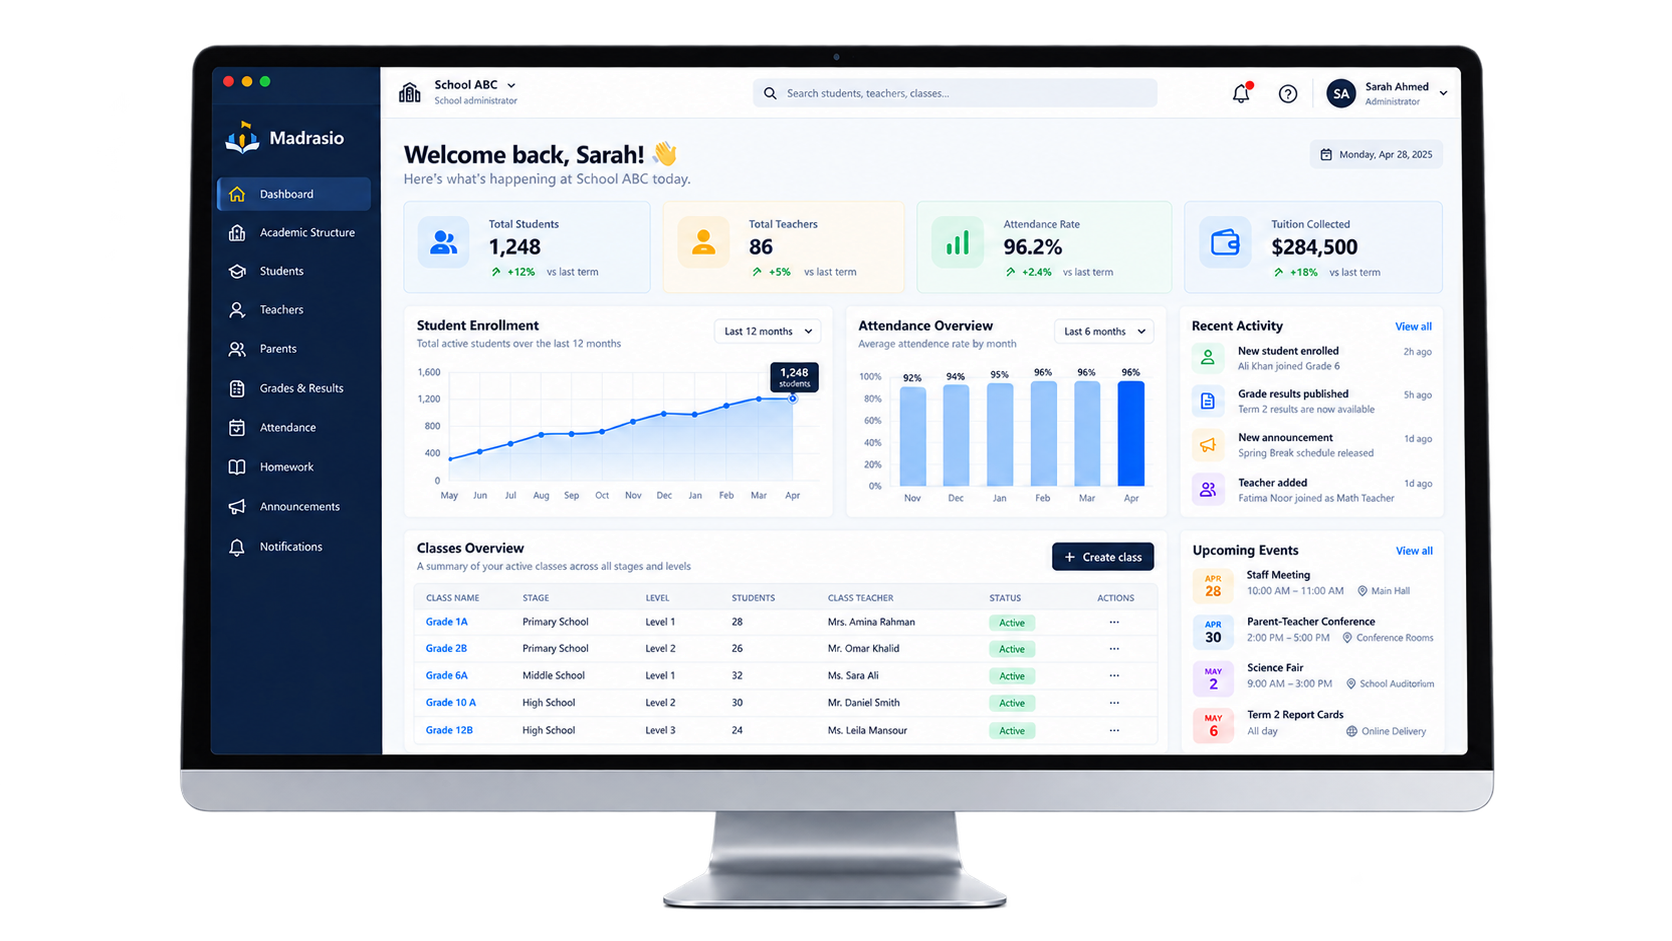
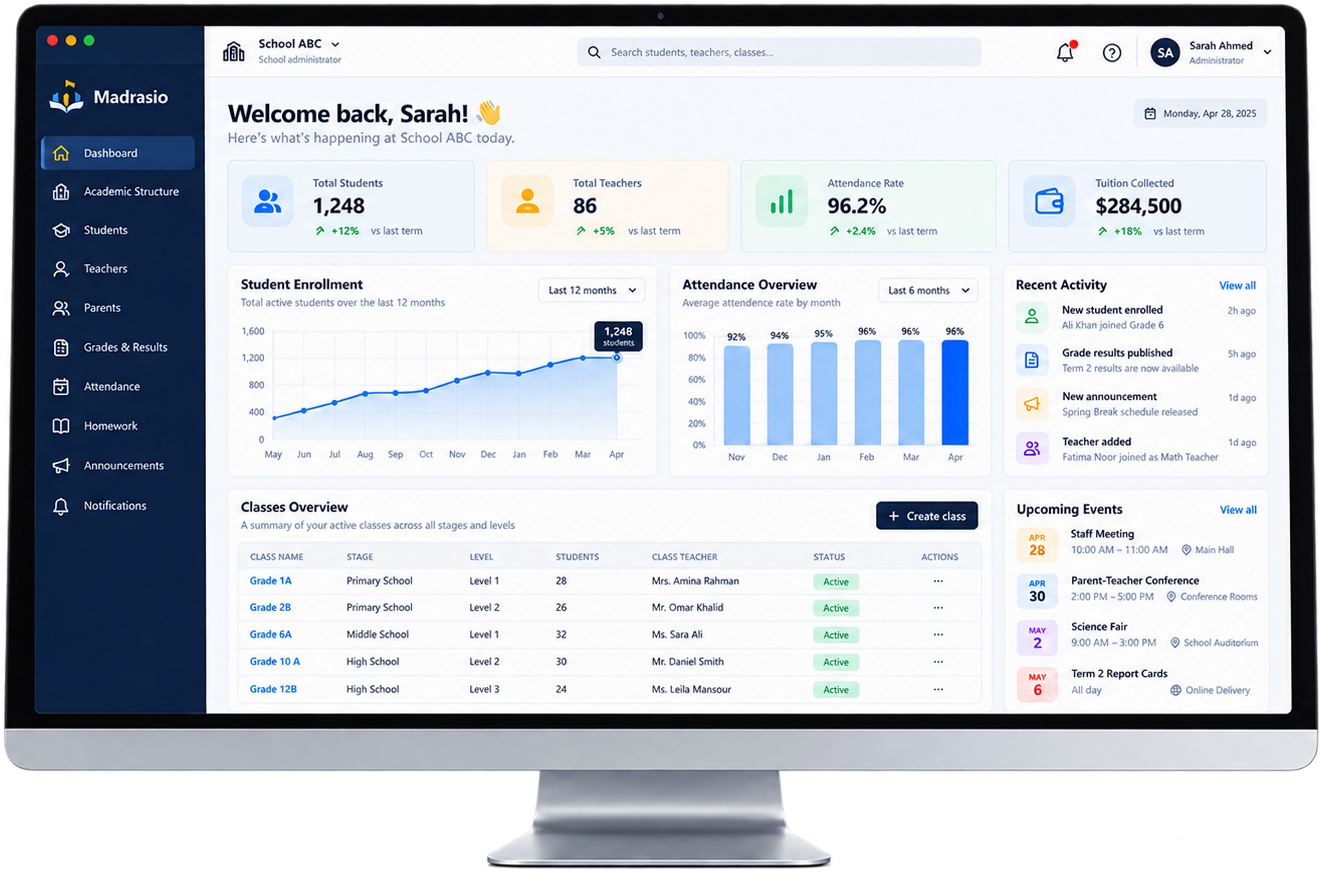
first release

diff --git a/components/Pricing.tsx b/components/Pricing.tsx
@@ -8,6 +8,7 @@ import {
   FaShieldHalved,
   FaUsers,
 } from 'react-icons/fa6';
+import { MdAttachMoney } from "react-icons/md";
 
 import { useLanguage } from '@/components/LanguageProvider';
 
@@ -62,10 +63,11 @@ export default function Pricing() {
   };
 
   return (
-    <section id="pricing" className="scroll-mt-20 w-full bg-[#FCA311]">
+    <section id="pricing" className="scroll-mt-16 w-full bg-[#FCA311]">
       <div className="w-full max-w-[1536px] mx-auto px-4 sm:px-8 lg:px-12 xl:px-16 py-16 lg:py-24 text-center">
         <div className="inline-flex items-center gap-2 px-4 py-1.5 rounded-full whitespace-nowrap bg-[#14213D] text-[#FCA311] text-xs font-black tracking-widest uppercase mb-6">
-          {t('pricingCalculator.badge')}
+          <MdAttachMoney size={20} />
+          <span>{t('pricingCalculator.badge')}</span>
         </div>
         <h2 className="text-4xl sm:text-5xl lg:text-6xl font-black text-[#14213D] mb-6">
           <span className="text-black">{t('pricingCalculator.titleA')}</span>{' '}

diff --git a/components/Roles.tsx b/components/Roles.tsx
@@ -6,6 +6,8 @@ import {
   FaPersonChalkboard,
   FaUserShield,
 } from 'react-icons/fa6';
+import { GrStakeholder } from "react-icons/gr";
+
 
 import { useLanguage } from '@/components/LanguageProvider';
 
@@ -20,7 +22,8 @@ export default function Roles() {
     <section id="roles" className="w-full bg-[#000000] overflow-hidden">
       <div className="w-full max-w-[1536px] mx-auto px-4 sm:px-8 lg:px-12 xl:px-16 py-16 lg:py-24 text-center">
         <div className="inline-flex items-center gap-2 px-4 py-1.5 rounded-full whitespace-nowrap bg-[#FCA311]/15 border border-[#FCA311]/40 text-[#FCA311] text-xs font-black tracking-widest uppercase mb-4 shadow-[0_0_15px_rgba(252,163,17,0.2)]">
-          {t('roles.badge')}
+          <GrStakeholder size={20} />
+          <span>{t('roles.badge')}</span>
         </div>
         <h2 className="text-3xl sm:text-5xl lg:text-6xl font-black text-white tracking-tight mb-4">
           {t('roles.titleA')}{' '}

diff --git a/components/GlobalEducation.tsx b/components/GlobalEducation.tsx
@@ -1,6 +1,7 @@
 'use client';
 
 import { FaGlobe, FaGraduationCap, FaSchool } from 'react-icons/fa6';
+import { BsGlobeAmericasFill } from "react-icons/bs";
 
 import { useLanguage } from '@/components/LanguageProvider';
 
@@ -19,7 +20,8 @@ export default function GlobalEducation() {
       {/* Section Header & Feature Cards */}
       <div className="w-full max-w-[1536px] mx-auto px-4 sm:px-8 lg:px-12 xl:px-16 text-center py-16 lg:py-24">
         <div className="inline-flex items-center gap-2 px-4 py-1.5 rounded-full whitespace-nowrap border border-[#FCA311]/30 bg-[#14213D] text-[#FCA311] text-xs font-semibold tracking-widest uppercase mb-6">
-          {t('globalEducation.badge')}
+          <BsGlobeAmericasFill size={20} />
+          <span>{t('globalEducation.badge')}</span>
         </div>
         <h2 className="text-3xl sm:text-5xl lg:text-6xl font-bold text-white mb-4">
           {t('globalEducation.titleA')}{' '}

diff --git a/components/Security.tsx b/components/Security.tsx
@@ -5,6 +5,7 @@ import {
   FaDatabase,
   FaShieldHalved,
 } from 'react-icons/fa6';
+import { IoShieldHalfOutline } from "react-icons/io5";
 
 import { useLanguage } from '@/components/LanguageProvider';
 
@@ -38,7 +39,8 @@ export default function Security() {
     <section id="security" className="w-full bg-white overflow-hidden">
       <div className="w-full max-w-[1536px] mx-auto px-4 sm:px-8 lg:px-12 xl:px-16 py-16 lg:py-24 text-center">
         <div className="inline-flex items-center gap-2 px-4 py-1.5 rounded-full whitespace-nowrap bg-[#14213D]/5 border border-[#14213D]/10 text-[#14213D] text-xs font-bold tracking-widest uppercase mb-4">
-          {t('security.badge')}
+          <IoShieldHalfOutline size={20} />
+          <span>{t('security.badge')}</span>
         </div>
         <h2 className="text-3xl sm:text-5xl lg:text-6xl font-black text-[#14213D] tracking-tight mb-4">
           {t('security.titleA')}{' '}

diff --git a/components/ValuePillars.tsx b/components/ValuePillars.tsx
@@ -6,6 +6,8 @@ import {
   FaShieldHalved,
   FaUsers,
 } from 'react-icons/fa6';
+import { IoSchool } from "react-icons/io5";
+
 
 import { useLanguage } from '@/components/LanguageProvider';
 
@@ -25,7 +27,8 @@ export default function ValuePillars() {
     <section className="w-full bg-[#E5E5E5] overflow-hidden">
       <div className="w-full max-w-[1536px] mx-auto px-4 sm:px-8 lg:px-12 xl:px-16 py-16 lg:py-24 text-center">
         <div className="inline-flex items-center gap-2 px-4 py-1.5 rounded-full whitespace-nowrap bg-[#14213D]/5 border border-[#14213D]/10 text-[#14213D] text-xs font-bold tracking-widest uppercase mb-4">
-          {t('pillars.badge')}
+          <IoSchool size={20} />
+          <span>{t('pillars.badge')}</span>
         </div>
         <h2 className="text-3xl sm:text-5xl lg:text-6xl font-black text-[#14213D] tracking-tight mb-4">
           {t('pillars.titleA')}{' '}

diff --git a/components/FAQ.tsx b/components/FAQ.tsx
@@ -11,6 +11,7 @@ import {
   FaShieldHalved,
   FaUsers,
 } from 'react-icons/fa6';
+import { RiQuestionnaireFill } from "react-icons/ri";
 
 import { useLanguage } from '@/components/LanguageProvider';
 
@@ -36,7 +37,8 @@ export default function FAQ() {
           {/* Left Column: Header */}
           <div className="lg:col-span-5">
             <div className="inline-flex items-center gap-2 px-4 py-1.5 rounded-full whitespace-nowrap bg-[#FCA311]/15 border border-[#FCA311]/40 text-[#FCA311] text-xs font-black tracking-widest uppercase mb-6">
-              {t('faq.badge')}
+              <RiQuestionnaireFill size={20} />
+              <span>{t('faq.badge')}</span>
             </div>
             <h2 className="text-4xl sm:text-5xl lg:text-6xl font-black text-white tracking-tight mb-6 leading-tight">
               {t('faq.titleA')}{' '}

diff --git a/components/Contact.tsx b/components/Contact.tsx
@@ -208,7 +208,7 @@ export default function Contact() {
           {/* Left Column: Text & Value Props */}
           <div>
             <div className="inline-flex items-center justify-center gap-2 px-4 py-1.5 rounded-full whitespace-nowrap bg-[#FCA311] text-[#14213D] text-xs font-black tracking-widest uppercase mb-6 shadow-md">
-              <IoPeopleSharp size={18} />
+              <IoPeopleSharp size={20} />
               <span>{t('contact.badge')}</span>
             </div>
             <h2 className="text-4xl sm:text-5xl lg:text-6xl font-black text-[#14213D] tracking-tight mb-6 leading-tight">
